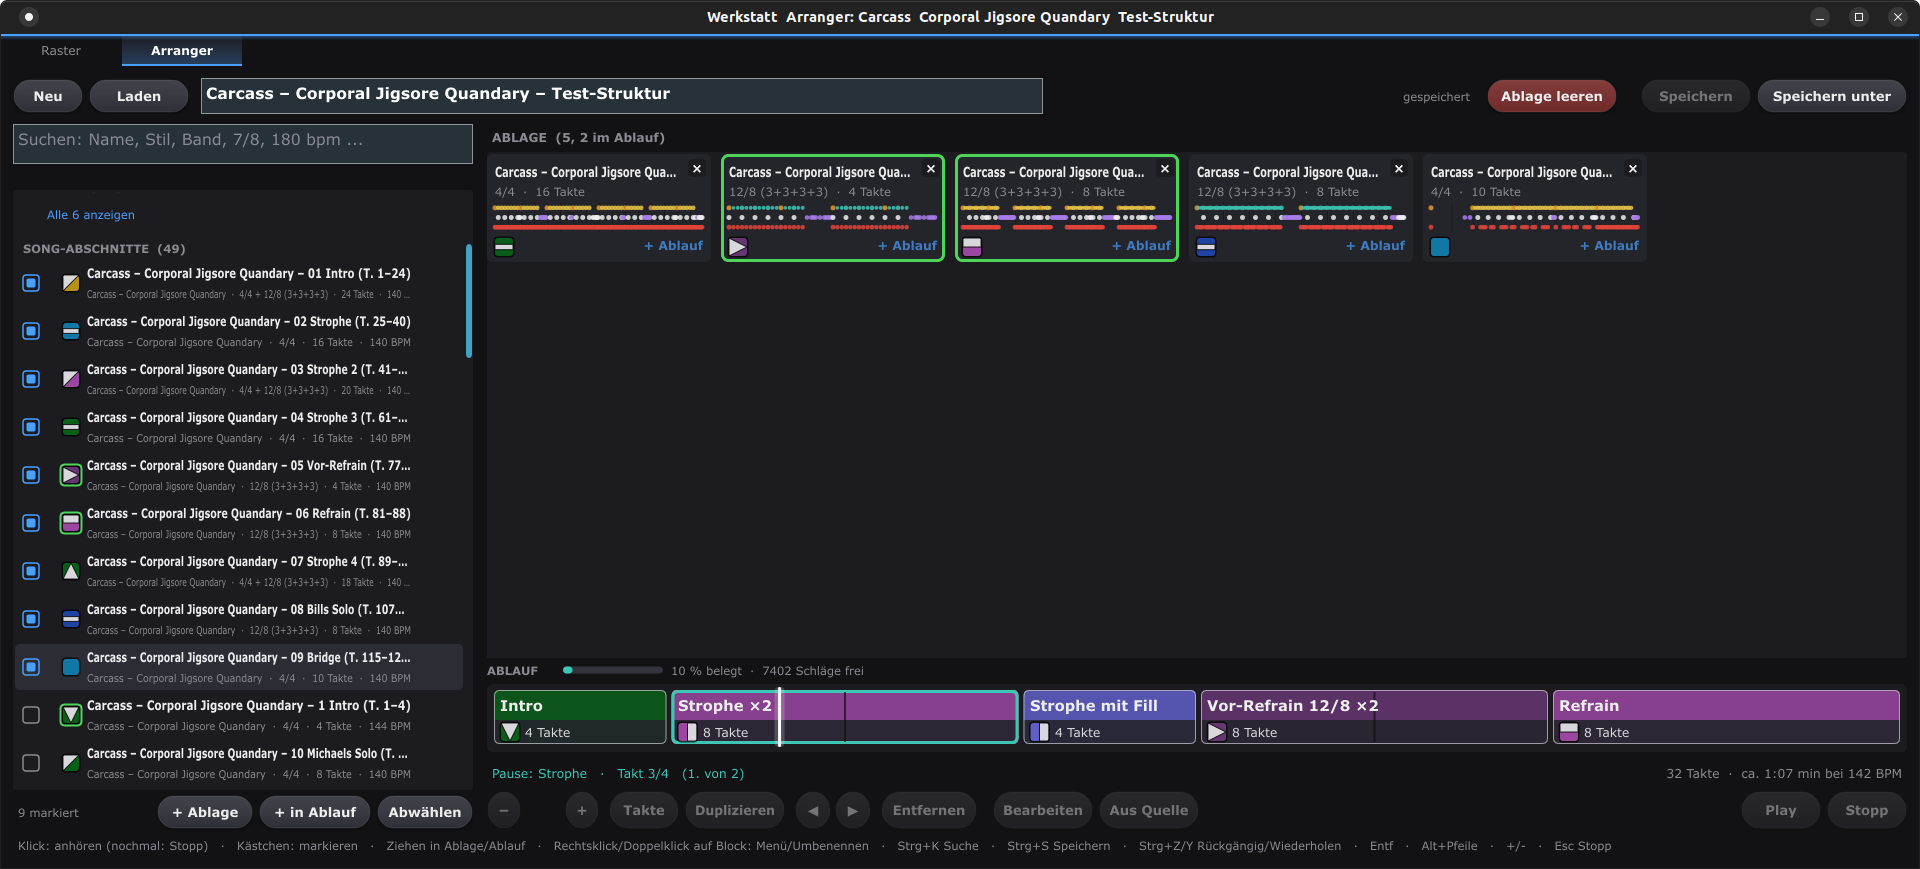
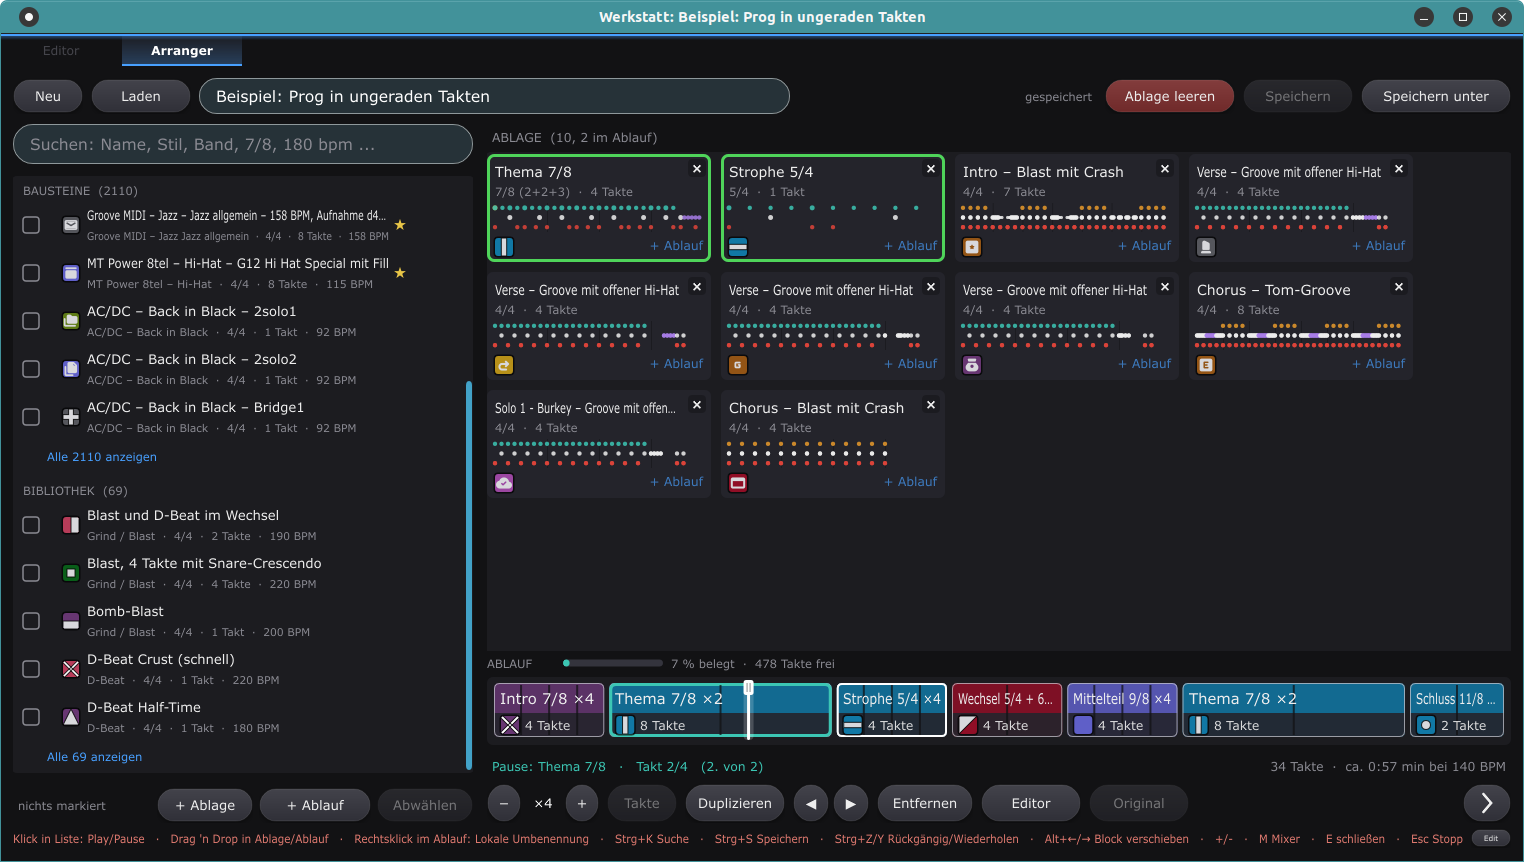
README mit neuen Bildern und Funktionen, Quellen behalten ihren Haken
- README: Startbild als erstes Bild, neue Bildschirmfotos von Hauptfenster (auch ein Song
  in 15/8), Editor, Arranger, Suche und Mixer; "Auf einen Blick"; Drum-Machine für
  Gitarre, Bass und Schlagzeug; Funktionsliste mit Schnellnavigation, Verlauf, Loop und
  Speed-Trainer mit Speicherplätzen, Versatz, Abzeichen, Spulen im Arranger, Startpaket,
  Quellenimport und Import-Vorlagen
- System › Quellen: eine importierte Quelle behält einen grauen Haken mit "schon da",
  auch beim nächsten Öffnen, damit nichts doppelt importiert wird

diff --git a/src/app/QuellenPanel.cpp b/src/app/QuellenPanel.cpp
@@ -46,7 +46,6 @@ QuellenPanel::QuellenPanel (const juce::File& scriptFile, const juce::File& data
         addAndMakeVisible (tick);
         tick->setColour (juce::ToggleButton::textColourId, theme::textMain);
         tick->setColour (juce::ToggleButton::tickColourId, theme::textMain);
-        tick->setEnabled (s.usable);
         tick->onClick = [this]
         {
             bool any = false;
@@ -59,13 +58,7 @@ QuellenPanel::QuellenPanel (const juce::File& scriptFile, const juce::File& data
         label->setJustificationType (juce::Justification::topLeft);
         label->setColour (juce::Label::textColourId, theme::textDim);
         label->setFont (juce::FontOptions (13.5f));
-        juce::String text = s.text + "\nHerkunft: " + s.origin + "  " + juce::String (juce::CharPointer_UTF8 ("\xc2\xb7")) + "  " + s.size
-                          + "\n" + s.hint;
-        if (s.present)
-            text << "  " << juce::String (juce::CharPointer_UTF8 ("\xc2\xb7")) << "  schon da";
-        if (! s.usable)
-            text << "\nGeht hier nicht: " << s.reason;
-        label->setText (text, juce::dontSendNotification);
+        showSource (ticks.size() - 1);
     }
 
     addAndMakeVisible (status);
@@ -87,6 +80,22 @@ QuellenPanel::~QuellenPanel()
     signalThreadShouldExit();
     process.kill();
     stopThread (4000);
+}
+
+void QuellenPanel::showSource (int index)
+{
+    const auto& s = sources[(size_t) index];
+    const juce::String dot (juce::CharPointer_UTF8 ("  \xc2\xb7  "));
+    juce::String text = s.text + "\nHerkunft: " + s.origin + dot + s.size + "\n" + s.hint;
+    if (s.present)
+        text << dot << "schon da";
+    if (! s.usable)
+        text << "\nGeht hier nicht: " << s.reason;
+    details[index]->setText (text, juce::dontSendNotification);
+    // there already: a ticked, greyed box, so it is not loaded twice; not usable here: greyed and empty
+    ticks[index]->setToggleState (s.present, juce::dontSendNotification);
+    ticks[index]->setEnabled (s.usable && ! s.present);   // during an import startImport() greys them all
+    ticks[index]->setTooltip (s.present ? "Schon im Datenordner" : juce::String());
 }
 
 void QuellenPanel::paint (juce::Graphics& g)
@@ -120,7 +129,7 @@ void QuellenPanel::startImport()
         return;
     queue.clear();
     for (int i = 0; i < ticks.size(); ++i)
-        if (ticks[i]->getToggleState() && sources[(size_t) i].usable)
+        if (ticks[i]->getToggleState() && sources[(size_t) i].usable && ! sources[(size_t) i].present)
             queue.add (sources[(size_t) i].id);
     if (queue.isEmpty())
         return;
@@ -202,6 +211,14 @@ void QuellenPanel::run()
         });
         installed->wait (120000);
         reports.add (name + ": " + *report);
+        juce::MessageManager::callAsync ([safe = juce::Component::SafePointer<QuellenPanel> (this), id]
+        {
+            if (safe == nullptr)
+                return;
+            for (size_t i = 0; i < safe->sources.size(); ++i)
+                if (safe->sources[i].id == id)
+                    safe->sources[i].present = true;   // done: ticked and greyed from now on
+        });
         juce::Logger::writeToLog ("Quellen: " + reports[reports.size() - 1]);
     }
     setStatus (reports.joinIntoString ("  " + juce::String (juce::CharPointer_UTF8 ("\xc2\xb7")) + "  "));
@@ -215,9 +232,6 @@ void QuellenPanel::run()
 void QuellenPanel::finished()
 {
     for (int i = 0; i < ticks.size(); ++i)
-    {
-        ticks[i]->setEnabled (sources[(size_t) i].usable);
-        ticks[i]->setToggleState (false, juce::dontSendNotification);
-    }
+        showSource (i);
     importButton.setEnabled (false);
 }

diff --git a/src/app/QuellenPanel.h b/src/app/QuellenPanel.h
@@ -32,6 +32,7 @@ private:
     void startImport();
     void setStatus (const juce::String&);   // any thread
     void finished();                         // message thread
+    void showSource (int index);             // tick and text: a source that is there keeps a greyed tick
 
     juce::File script, data;
     std::vector<Source> sources;

diff --git a/README.md b/README.md
@@ -1,14 +1,26 @@
 # HZ-Drummer
 
-Drum-Begleitprogramm zum Gitarre-Üben, gebaut für Metal: realistische Samples, Patterns in allen Taktarten bis hin zu Polyrhythmen, eine Bibliothek von D-Beat bis Tech-Death, ein Raster-Editor für eigene Grooves und ein Arranger, der aus Bausteinen ganze Songabläufe macht. C++ mit JUCE, entwickelt und getestet unter Ubuntu 22.04.
+Drum-Machine zum Üben und Mitspielen, für Gitarre, Bass und Schlagzeug, gebaut für Metal: realistische Samples, Patterns in allen Taktarten bis hin zu Polyrhythmen, eine Bibliothek von D-Beat bis Tech-Death, ein Raster-Editor für eigene Grooves und ein Arranger, der aus Bausteinen ganze Songabläufe macht. C++ mit JUCE, entwickelt und getestet unter Ubuntu 22.04.
 
-Das Programm ist ein Übungswerkzeug, kein Drum-Computer für Aufnahmen: Es soll ohne Umwege den richtigen Groove im richtigen Tempo liefern, damit man zur Gitarre greifen kann.
+**Auf einen Blick**
 
-![Hauptfenster während der Wiedergabe eines Songs](docs/bilder/hauptfenster.png)
+- **Drummer und Drum-Machine** zur einfachen Erstellung von kleinen Bausteinen bis zu komplexen Arrangements (Songs)
+- **Große Bibliothek**, aktuell mit Fokus auf Metal
+- **Quellenimport**: weitere Bausteine per Klick von ihren Originalquellen
+- **Jeder Baustein individuell anpassbar**
+- **Einzählen, Loops und Speed-Trainer** zum Üben
+
+Gedacht ist es zum Üben, nicht für Studioaufnahmen: Es soll ohne Umwege den richtigen Groove im richtigen Tempo liefern, damit man gleich zum Instrument greifen kann.
+
+![Startbild von HZ-Drummer](docs/bilder/startbild.png)
 
 <p>
-<img src="docs/bilder/raster.png" alt="Raster-Editor mit Mute und Solo je Spur" width="49%">
-<img src="docs/bilder/arranger.png" alt="Arranger mit Suche, Ablage und Ablauf" width="49%">
+<img src="docs/bilder/hauptfenster.png" alt="Hauptfenster: Beispiel-Arrangement in ungeraden Takten mit Loop-Bereich und Speed-Trainer" width="49%">
+<img src="docs/bilder/hauptfenster-song.png" alt="Hauptfenster: ein Song in 15/8 mit dreizeiliger Takt-Leiste" width="49%">
+</p>
+<p>
+<img src="docs/bilder/raster.png" alt="Werkstatt, Editor: Raster mit Swing, Versatz in ms und Mute/Solo je Spur" width="49%">
+<img src="docs/bilder/arranger.png" alt="Werkstatt, Arranger: Suche, Ablage und Ablauf mit Positionsstrich" width="49%">
 </p>
 <p>
 <img src="docs/bilder/suche.png" alt="Schnellsuche mit Abzeichen" width="49%">
@@ -17,14 +29,19 @@ Das Programm ist ein Übungswerkzeug, kein Drum-Computer für Aufnahmen: Es soll
 
 ## Was es kann
 
-- **Patterns** in beliebigen Taktarten, auch gemischt innerhalb eines Patterns, mit Akzenten, Ghost-Notes, Flams, offener HiHat, Swing und einstellbarer „Menschlichkeit“.
+- **Patterns** in beliebigen Taktarten, auch gemischt innerhalb eines Patterns, mit Akzenten, Ghost-Notes, Flams, offener HiHat, Swing, verzögerten oder vorgezogenen Schlägen (Versatz bis ±100 ms, „laid back“ oder treibend) und einstellbarer „Menschlichkeit“.
 - **Bibliothek** mit Grooves nach Stil (D-Beat, Thrash, Death, Grind, Doom, Hardcore, Prog, Tech-Death, Jazz) und Vier-Takt-Phrasen mit Übergängen.
-- **Raster-Editor** („Werkstatt“): Schläge setzen, Lautstärke ziehen, Takte und Taktarten je Takt ändern, Mute und Solo je Spur, Rückgängig und Wiederholen, sofort hörbar.
-- **Arranger**: Songabläufe aus Bausteinen, mit Ablage, Taktbereichen, lokalen Varianten und Sprung auf jeden Block.
+- **Raster-Editor** („Werkstatt“): Schläge setzen, Lautstärke ziehen, Takte und Taktarten je Takt ändern, Mute und Solo je Spur, Besen-Spuren, „Übertragen auf“ (eine ganze Spur auf eine andere, etwa Hi-Hat auf Ride), Rückgängig und Wiederholen, sofort hörbar.
+- **Arranger**: Songabläufe aus Bausteinen, mit Ablage, Taktbereichen, lokalen Varianten, Sprung auf jeden Block und Spulen am Positionsstrich, auch mitten in lange Bausteine.
+- **Abzeichen** aus Farbe und Form an jedem Baustein, damit man ihn in Menü, Ablage und Ablauf sofort wiedererkennt.
+- **Schnellnavigation per Pfeiltasten** durch Ordner und Favoriten, ein kurz eingeblendetes Menü zeigt, wo man ist; **Verlauf** mit Alt+←/→ wie im Browser, um einen guten Fund wiederzufinden.
+- **Loop und Speed-Trainer**: einen Bereich ganzer Takte per Shift+Ziehen loopen, das Tempo nach jeder Runde stufenweise steigern; zehn benannte **Speicherplätze** für Übestellen mit Bereich und Trainer-Werten.
 - **Suche** über alles mit Filtern wie `7/8` oder `160-190 bpm`, Vorhören direkt im Menü.
 - **Einzählen** vor dem Start, Tap-Tempo, Mixer je Instrument mit Pegelanzeige, Metronom mit eigenen Taktarten.
 - **Ordnerstruktur** und **Papierkorb** für eigene Patterns und Songs.
-- **Community-Bausteine**: kurze Loops von Carcass und Exhorder zum Mitspielen, siehe [community/](community/).
+- **Startpaket**: Groove MIDI (echte Einspielungen), R.P. Bardet, kurze Loops von Carcass und Exhorder und drei Beispiel-Arrangements, beim ersten Start schon da, siehe [community/](community/).
+- **Quellenimport** per Klick (System › Quellen): weitere Bausteine, die nicht mitgeliefert werden dürfen (MT Power, Band-Songs, Guitar-Pro-Tabs, MIDI), lädt das Programm von der Originalquelle und wandelt sie auf dem eigenen Rechner um, mit Import-Log.
+- **Import-Vorlagen** für Guitar Pro, MIDI, Hydrogen und gedruckte Pattern-Bücher unter [tools/import](tools/import/README.md), auch als Vorlage für KI-Assistenten.
 
 ## Voraussetzungen
 
